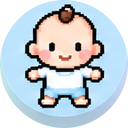
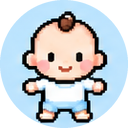
fix: 아기 캐릭터를 원 안쪽으로 다시 잘라 아래에 그림자처럼 끼던 바깥 배경 띠 없앰
Claude-Session: https://claude.ai/code/session_01NgcHTNedQfpLVcTAQVcUJr

diff --git a/tools/design/avatars.py b/tools/design/avatars.py
@@ -7,8 +7,10 @@ from PIL import Image, ImageDraw
 SRC = 'tools/design/avatar-sheet.png'
 OUT = 128  # 화면에선 48·64px로 보이므로 2배 이상
 # 맨 아래 줄: 그림마다 가운데(x, y), 잘라 낼 반지름. 그림 칸 간격이 위 줄과 달라 하나씩(진한 칸이 몰린 자리에서 잼)
-KIDS = [(94, 935), (247, 935), (395, 935), (545, 935), (704, 935), (852, 935), (994, 935), (1145, 935), (1294, 935)]
-R = 72
+# 2026-11-03 고침(사용자 "아기 캐릭터 밑에 그림자 뭐야?"): 예전 y 935·반지름 72는 원보다 아래·크게 잡혀 원 밖 배경이 아래에 띠(그림자처럼)로 들어감.
+# 원 가장자리를 재 보니(양옆 ±52px에서 위 875·아래 971) 가운데 y 923·반지름 약 70 → 안쪽 67로 자름
+KIDS = [(94, 923), (247, 923), (395, 923), (545, 923), (704, 923), (852, 923), (994, 923), (1145, 923), (1294, 923)]
+R = 67
 # 위 다섯 줄: 9칸씩, 칸 가운데 x·y(그림 칸 간격이 고르다), 반지름 78
 COLS = [108, 272, 437, 602, 767, 932, 1097, 1262, 1427]
 ROWS = [110, 275, 440, 605, 768]
